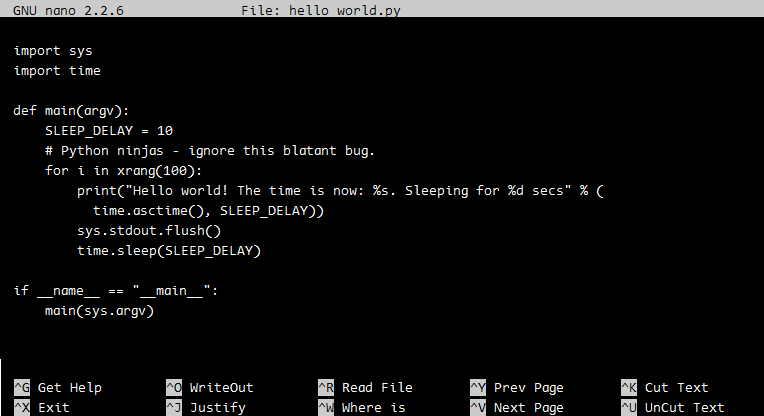
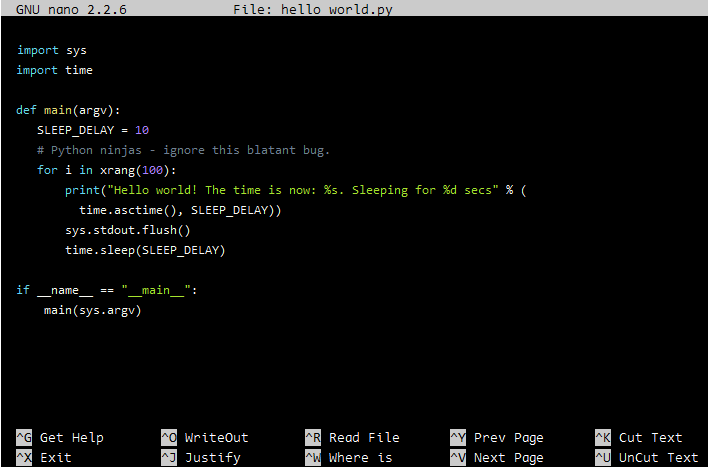
update information

diff --git a/index.html b/index.html
@@ -79,7 +79,10 @@
               <h1 class="category">How do I use it?</h1>
               <br/>
               <p class="text">
-                Initial configurarion of the plugin, is necessary to use bootstrap.min.css is required because the plugin uses a Bootstrap CSS grid
+                Initial configurarion of the plugin, is necessary to use bootstrap.min.css is
+                required because the plugin uses a Bootstrap CSS grid
+                <a href="http://prismjs.com/" target="_blank">Prism.JS</a> for syntax highlighting 
+                in nano editor.
               </p>
               <br/>
 

diff --git a/features.html b/features.html
@@ -69,9 +69,9 @@
               <a href="./demo/aurora.html" class="btn btn-primary btn-lg">
                 <i class="fa fa-rocket"></i> Apache Aurora Tutorial
               </a>
-              <a href="./demo/chef.html" class="btn btn-primary btn-lg">
+              <!--a href="./demo/chef.html" class="btn btn-primary btn-lg">
                 <i class="fa fa-rocket"></i> Chef Tutorial
-              </a>
+              </a-->
               <br/><br/>
             </div>
 
